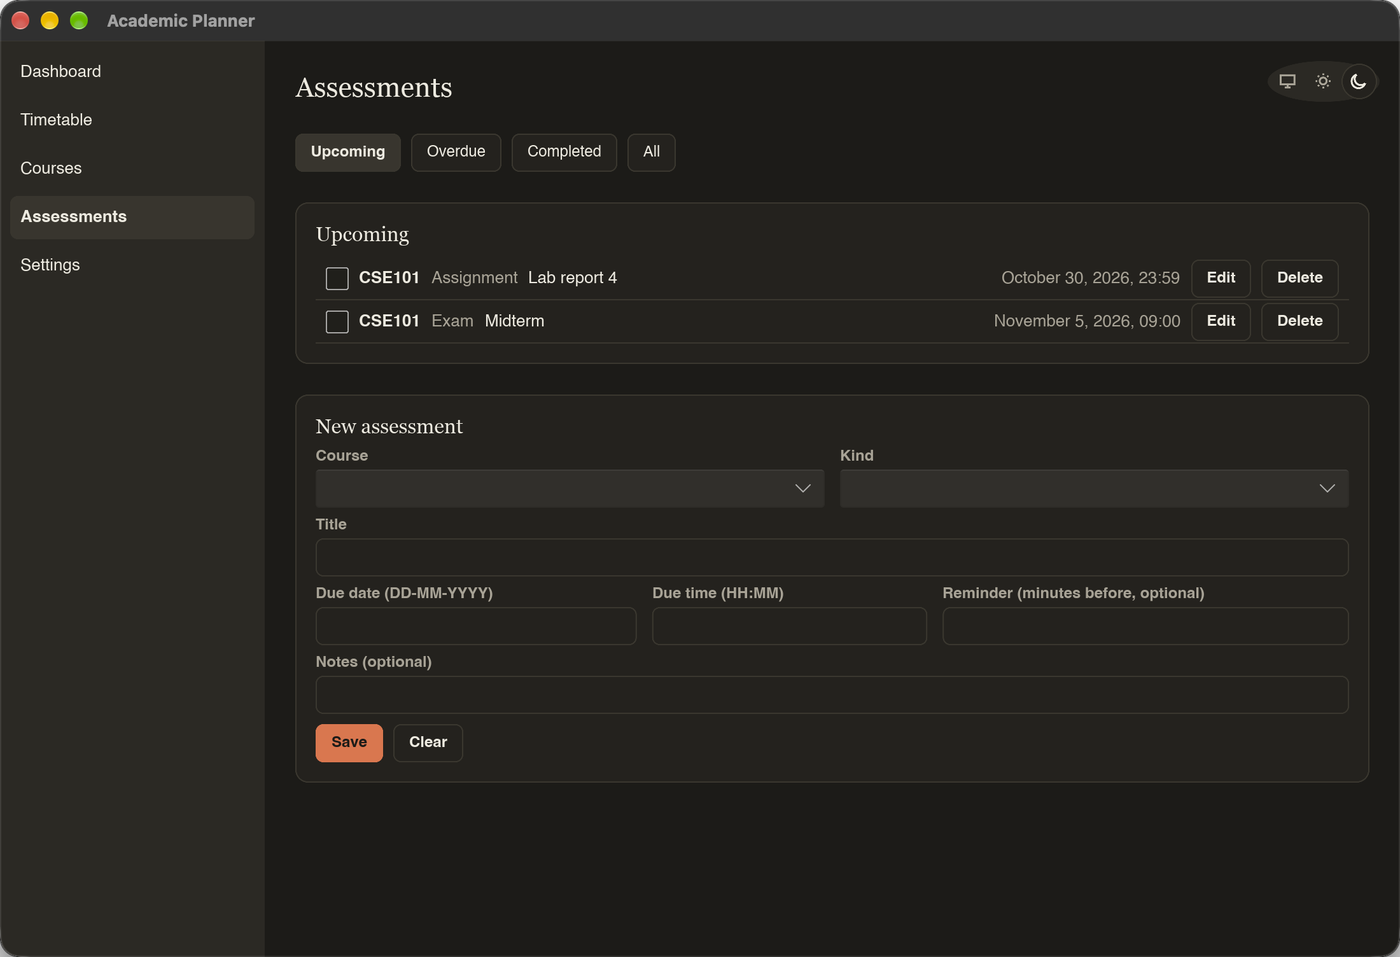
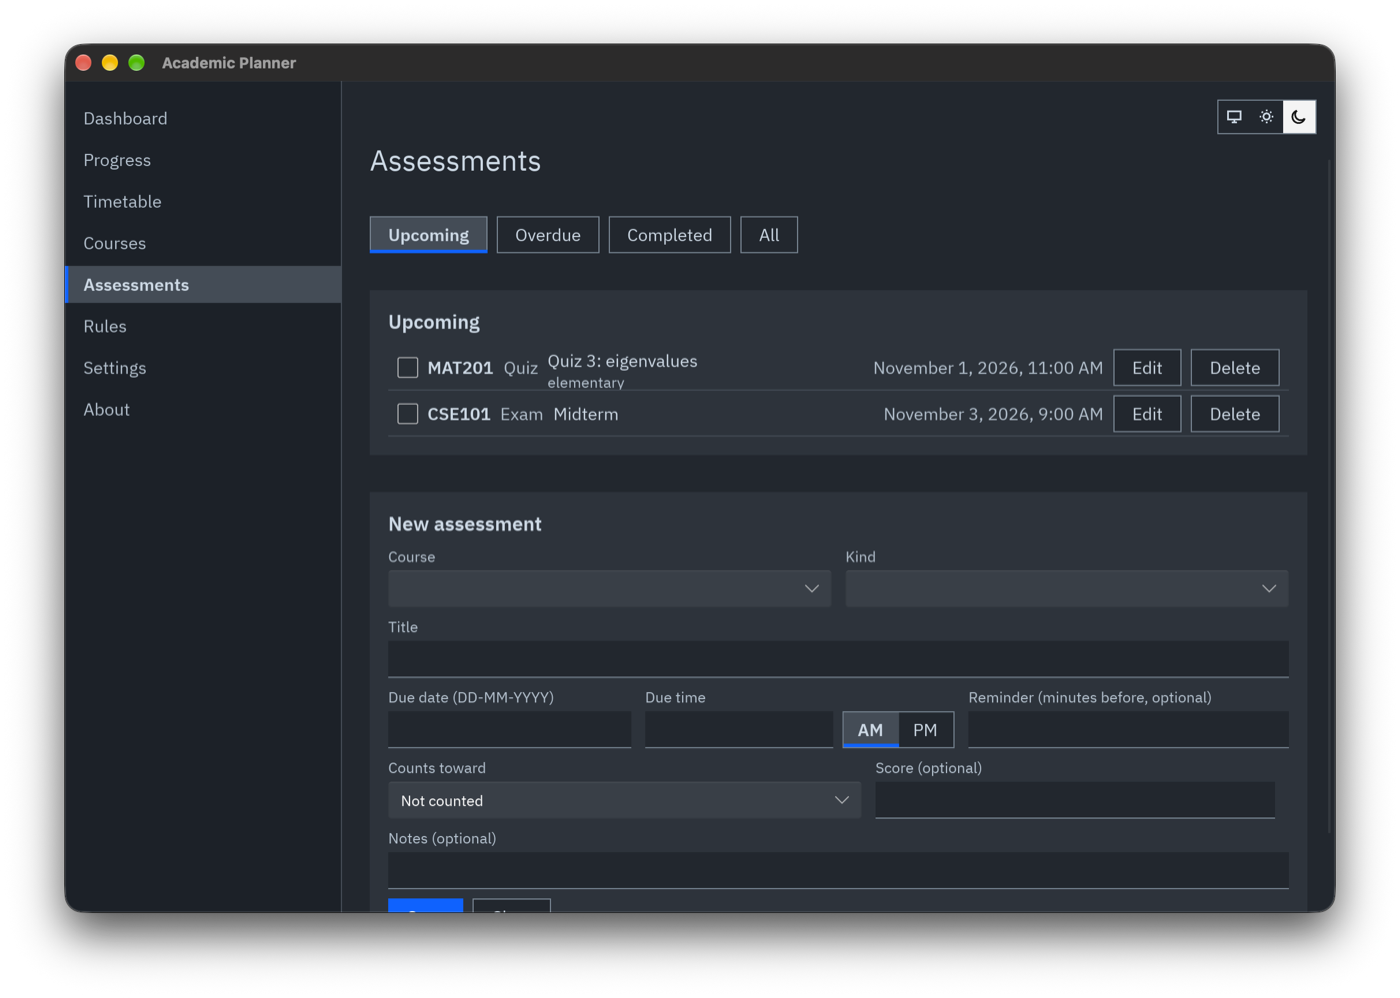
README: screenshots of the current app

diff --git a/README.md b/README.md
@@ -28,11 +28,13 @@ Every page comes in a light and a dark appearance; switch with the control in th
 
 | | Light | Dark |
 | --- | --- | --- |
-| **Dashboard** | ![Dashboard in light mode: the below-target banner, classes awaiting attendance, and the mini calendar with today's classes](docs/screenshots/dashboard-light.png) | ![Dashboard in dark mode: the below-target banner, classes awaiting attendance, and the mini calendar with today's classes](docs/screenshots/dashboard-dark.png) |
-| **Timetable** | ![Timetable in light mode: the week view with each day's classes](docs/screenshots/timetable-light.png) | ![Timetable in dark mode: the week view with each day's classes](docs/screenshots/timetable-dark.png) |
-| **Courses** | ![Courses in light mode: the course list with instructor, room, and attendance target](docs/screenshots/courses-light.png) | ![Courses in dark mode: the course list with instructor, room, and attendance target](docs/screenshots/courses-dark.png) |
-| **Assessments** | ![Assessments in light mode: upcoming assessments and the new assessment form](docs/screenshots/assessments-light.png) | ![Assessments in dark mode: upcoming assessments and the new assessment form](docs/screenshots/assessments-dark.png) |
-| **Settings** | ![Settings in light mode: the term, a midterm-week holiday range, and reminder settings](docs/screenshots/settings-light.png) | ![Settings in dark mode: the term, a midterm-week holiday range, and reminder settings](docs/screenshots/settings-dark.png) |
+| **Dashboard** | ![Dashboard in light mode: the below-target banner for MAT201, the Awaiting attendance list with Attended, Absent, and Cancelled buttons, and the October 2026 calendar next to Today's classes](docs/screenshots/dashboard-light.png) | ![Dashboard in dark mode: the below-target banner for MAT201, the Awaiting attendance list with Attended, Absent, and Cancelled buttons, and the October 2026 calendar next to Today's classes](docs/screenshots/dashboard-dark.png) |
+| **Progress** | ![Progress in light mode: per-course cards with attendance percentage against the target, an on-track or at-risk label, and how many remaining classes can be missed](docs/screenshots/progress-light.png) | ![Progress in dark mode: per-course cards with attendance percentage against the target, an on-track or at-risk label, and how many remaining classes can be missed](docs/screenshots/progress-dark.png) |
+| **Timetable** | ![Timetable in light mode: the Week view for October 26 to November 1, 2026, with each class marked Attended, Pending, or Rescheduled](docs/screenshots/timetable-light.png) | ![Timetable in dark mode: the Week view for October 26 to November 1, 2026, with each class marked Attended, Pending, or Rescheduled](docs/screenshots/timetable-dark.png) |
+| **Courses** | ![Courses in light mode: the course list with instructor, room, and attendance target, and the New course, Import, Copy JSON, and Save JSON buttons](docs/screenshots/courses-light.png) | ![Courses in dark mode: the course list with instructor, room, and attendance target, and the New course, Import, Copy JSON, and Save JSON buttons](docs/screenshots/courses-dark.png) |
+| **Assessments** | ![Assessments in light mode: the Upcoming list with a quiz and a midterm, and the New assessment form](docs/screenshots/assessments-light.png) | ![Assessments in dark mode: the Upcoming list with a quiz and a midterm, and the New assessment form](docs/screenshots/assessments-dark.png) |
+| **Rules** | ![Rules in light mode: the Theory and Lab rule sets with their weights, and the start of the grade scale](docs/screenshots/rules-light.png) | ![Rules in dark mode: the Theory and Lab rule sets with their weights, and the start of the grade scale](docs/screenshots/rules-dark.png) |
+| **Settings** | ![Settings in light mode: the current term, the empty Past terms list, and holidays with the add-holiday form](docs/screenshots/settings-light.png) | ![Settings in dark mode: the current term, the empty Past terms list, and holidays with the add-holiday form](docs/screenshots/settings-dark.png) |
 
 ## Download and install
 
